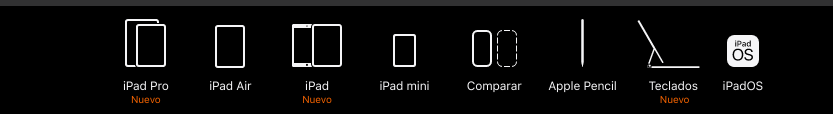
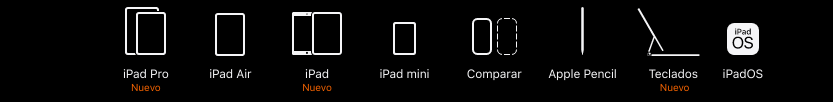
segunda pagina

diff --git a/src/assets/styleds/Ipad.js b/src/assets/styleds/Ipad.js
@@ -1,0 +1,52 @@
+import styled from "styled-components";
+const color = {
+  black: "#000000",
+  light: "#f5f5f7",
+};
+const Ipads = styled.div`
+  display: grid;
+  grid-template-columns: repeat(auto-fill, minmax(100%, 1fr));
+  height: 60vh;
+
+  background-color: ${color.black};
+  color: ${color.light};
+  h2 {
+    text-align: center;
+    font-family: Arial;
+    font-size: calc(1em + 1.5vw);
+    font-weight: bold;
+    line-height: 0.9;
+    margin-top: 60px;
+  }
+  .imagen {
+    display: flex;
+    justify-content: center;
+    align-items: center;
+    margin-top: 10%;
+    img {
+      width: 100%;
+    }
+  }
+  .imageIcono {
+    display: flex;
+    justify-content: center;
+    align-items: center;
+    img {
+      width: 60%;
+    }
+  }
+`;
+const ParrafoH5 = styled.div`
+  width: 100%;
+
+  h5 {
+    font-size: calc(0.3em + 0.5vw);
+    margin-top: 30px;
+    background-color: #333;
+    height: 5vh;
+    display: flex;
+    justify-content: center;
+    align-items: center;
+  }
+`;
+export { Ipads, ParrafoH5 };

diff --git a/src/components/Ipad.jsx b/src/components/Ipad.jsx
@@ -1,0 +1,32 @@
+import React from "react";
+import { Ipads, ParrafoH5 } from "../assets/styleds/Ipad";
+import icons from "../assets/img/iconIpad.png";
+import imgipad from "../assets/img/ipad.png";
+export const Ipad = () => {
+  return (
+    <Ipads>
+      <div className="text-center">
+        <div className="imageIcono">
+          <img src={icons} alt="" />
+        </div>
+
+        <ParrafoH5>
+          <h5>
+            Apple temporalmente no puede ofrecer dispositivos con tecnología 5G
+            en Colombia debido a una orden de un tribunal colombiano, decisión
+            que Apple está apelando.
+          </h5>
+        </ParrafoH5>
+        <h2>
+          Diles hola a los nuevos <br />
+          iPad y iPad Pro.
+        </h2>
+        <br></br>
+        <button className="btn btn-light">ver video</button>
+      </div>
+      <div className="imagen">
+        <img src={imgipad} alt="" />
+      </div>
+    </Ipads>
+  );
+};

diff --git a/src/pages/MacPages.jsx b/src/pages/MacPages.jsx
@@ -1,17 +1,23 @@
 import React from "react";
+import { ContainerMac } from "../assets/styleds/MacPages";
 import { HomeBody } from "../components/HomeBody";
 import { HomeIcons } from "../components/HomeIcons";
 
 const MacPages = () => {
   return (
-    <>
-      <div className="container">
-        <HomeIcons />
-      </div>
-      <div className="">
-        <HomeBody />
-      </div>
-    </>
+    <div className="container">
+      <ContainerMac>
+        <div className="homeIconoDiv">
+          <HomeIcons />
+          {/* <div className="boton">
+            <button className="btn ">nex</button>
+          </div> */}
+        </div>
+        <div className="">
+          <HomeBody />
+        </div>
+      </ContainerMac>
+    </div>
   );
 };
 

diff --git a/src/assets/styleds/HomeIcons.js b/src/assets/styleds/HomeIcons.js
@@ -8,12 +8,17 @@ const color = {
   black: "#000",
 };
 const NavbarPadre = styled.div`
-  margin-top: 30px;
-  /* width: 60%; */
+  display: none;
 
-  display: flex;
-  justify-content: center;
-  align-items: center;
+  @media (min-width: 768px) {
+    margin-top: 30px;
+    display: flex;
+    justify-content: center;
+    align-items: center;
+    .boton {
+      display: none;
+    }
+  }
   nav {
     width: 70%;
   }
@@ -30,7 +35,6 @@ const NavbarPadre = styled.div`
     align-items: center;
   }
   li {
-    display: grid;
     justify-items: center;
     list-style-type: none;
   }

diff --git a/src/pages/NotFound.jsx b/src/pages/NotFound.jsx
@@ -1,11 +1,15 @@
 import React from "react";
+import { Link } from "react-router-dom";
 
 const NotFound = () => {
   return (
     <div className="text-center p-5 text-bg-dark ">
       <p>
-        Esta pagina es una copide de la pagina Apple es aqui prectico lo que son
-        compotentes los rauter
+        Esta pagina es una copiad de la pagina de Apple en ella practico los
+        componectes<br></br>
+        <span>Bootstrap styled-componet</span>
+        <br></br>
+        <Link to="/home">ver</Link>
       </p>
     </div>
   );

diff --git a/src/assets/styleds/borrador.js b/src/assets/styleds/borrador.js
@@ -7,11 +7,11 @@ const colors = {
   silver: "#f5f5f7",
   black: "#000",
 };
-const ComtainerApp = styled.div`
+const ComtainerVert = styled.div`
   display: grid;
   grid-template-columns: repeat(auto-fill, minmax(100%, 1fr));
   justify-items: center;
   font-family: Arial;
 `;
 
-export { ComtainerApp };
+export { ComtainerVert };

diff --git a/src/pages/IpadPage.jsx b/src/pages/IpadPage.jsx
@@ -1,7 +1,15 @@
 import React from "react";
 
+import { Ipad } from "../components/Ipad";
+
 const IpadPage = () => {
-  return <div>IpadPage</div>;
+  return (
+    <>
+      <div>
+        <Ipad />
+      </div>
+    </>
+  );
 };
 
 export { IpadPage };

diff --git a/src/assets/styleds/HomeBody.js b/src/assets/styleds/HomeBody.js
@@ -8,6 +8,8 @@ const color = {
 };
 const ContainerBody = styled.div`
   display: grid;
+  /* display: grid; */
+  grid-template-columns: repeat(auto-fill, minmax(100%, 1fr));
   justify-items: center;
   align-items: center;
   height: 50vh;

diff --git a/src/assets/styleds/MacPages.js b/src/assets/styleds/MacPages.js
@@ -1,0 +1,11 @@
+import styled from "styled-components";
+
+const ContainerMac = styled.div`
+  @media (min-width: 768px) {
+    .boton {
+      display: none;
+    }
+  }
+`;
+
+export { ContainerMac };

diff --git a/src/assets/styleds/HeaderVert.js b/src/assets/styleds/HeaderVert.js
@@ -7,7 +7,7 @@ const ContainerVert = styled.div`
   position: absolute;
   width: 100%;
   height: 100vh;
-  top: 36px;
+  top: 39px;
 
   transition: all 0.6s ease;
   text-align: center;
